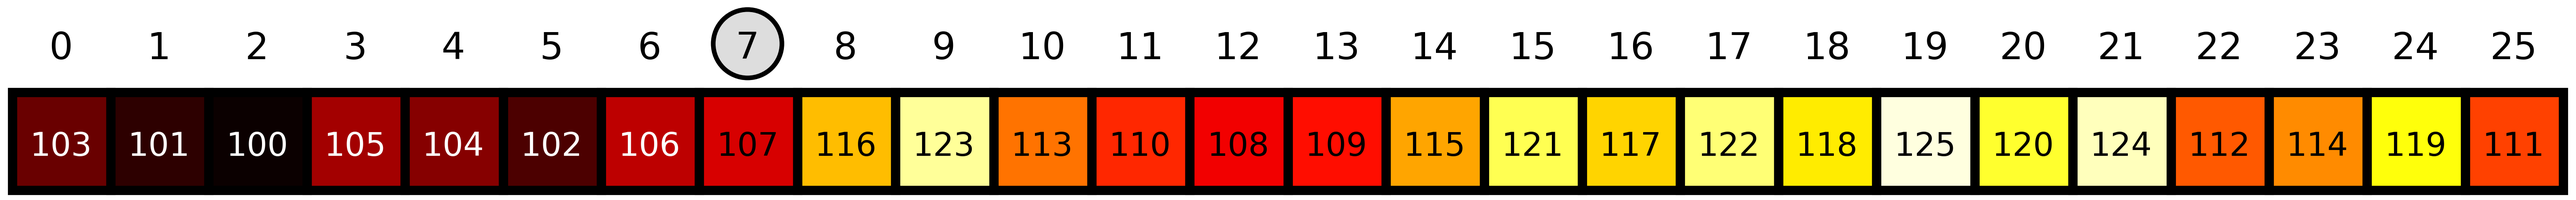
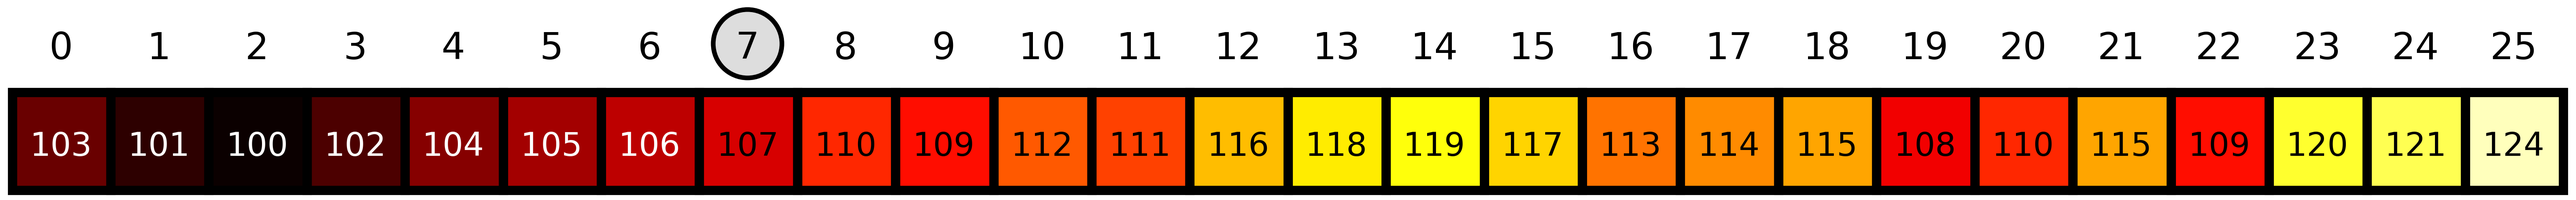
minor figure updates

Changed region(s): [[0.3119, 0.4688, 0.9982, 0.9375], [0.1872, 0.4688, 0.2496, 0.9375], [0.0936, 0.4688, 0.156, 0.9375]]

diff --git a/plotting/figures.py b/plotting/figures.py
@@ -44,15 +44,19 @@ for case in ("rnd","sort","1a","1b","2","3","p","pend","qs"):
     np.random.seed(42)
     exampleV=np.random.permutation(exampleV)
     nths=[]
+    if case == "rnd":
+        np.random.seed(221)
+        exampleV[8:]=np.random.permutation(range(8,26))
+        exampleV[:8]=np.random.permutation(range(0,8))
     if case == "sort":
         exampleV=np.sort(exampleV)
     if case == "1a":
         nths=[7]
+        np.random.seed(11)
         exampleV=np.partition(exampleV,nths)
-        swap(exampleV,3,5)
-        swap(exampleV,8,12)
-        swap(exampleV,11,22)
-        swap(exampleV,14,25)
+        exampleV[8:]=np.random.permutation(range(8,26))
+        exampleV[8:20]=np.random.permutation(range(8,20))
+        exampleV[8:20]=np.random.permutation(range(8,20))
     if case == "1b":
         nths=[20]
         exampleV=np.partition(exampleV,nths)
@@ -60,6 +64,8 @@ for case in ("rnd","sort","1a","1b","2","3","p","pend","qs"):
         swap(exampleV,2,14)
         swap(exampleV,8,17)
         exampleV[21:]=[23,22,24,25,21]
+        exampleV[8:20]=np.random.permutation(range(8,20))
+        exampleV[8:20]=np.random.permutation(range(8,20))
     if case == "2":
         nths=[7,20]
         exampleV=np.partition(exampleV,nths)
@@ -67,6 +73,9 @@ for case in ("rnd","sort","1a","1b","2","3","p","pend","qs"):
         swap(exampleV,9,13)
         swap(exampleV,8,17)
         exampleV[21:]=[23,22,24,25,21]
+        exampleV[8:20]=np.random.permutation(range(8,20))
+        exampleV[8:20]=np.random.permutation(range(8,20))
+
 
     if case == "3":
         nths=[7,12,20]
@@ -76,6 +85,8 @@ for case in ("rnd","sort","1a","1b","2","3","p","pend","qs"):
         swap(exampleV,13,16)
         swap(exampleV,14,18)
         exampleV[21:]=[23,22,24,25,21]
+        exampleV[13:20]=np.random.permutation(range(13,20))
+
 
     if case == "p":
         nths=[0,1,2,3,4,5,6,7]
